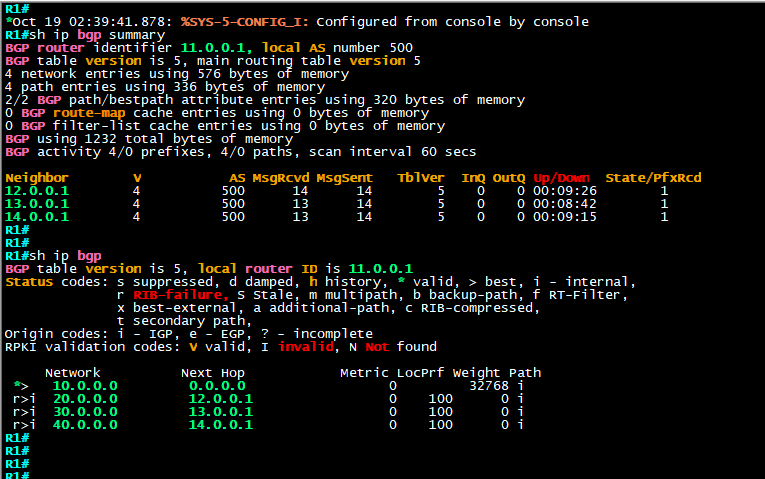
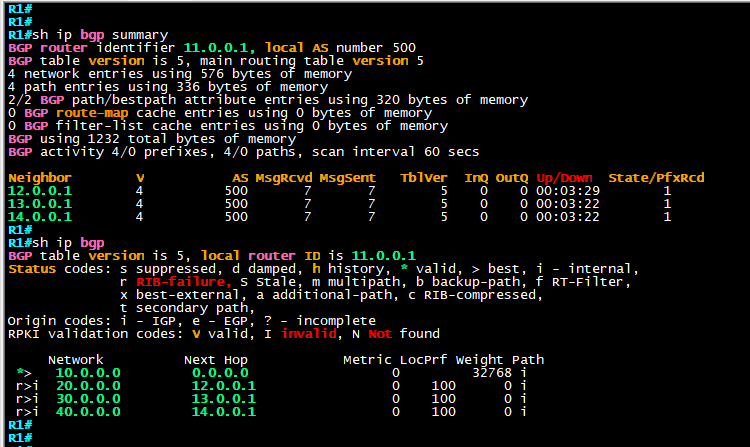
Add post-rename full-mesh BGP evidence

Changed region(s): [[0.0, 0.0, 0.9507, 1.0]]

diff --git a/README.md b/README.md
@@ -19,7 +19,7 @@ R1, R2, R3, and R4 form a physical ring. The iBGP configuration points each rout
 | R3 | `13.0.0.1/32` | `30.1.1.1/8` | `IBGP-PEERS` | `30.0.0.0/8` |
 | R4 | `14.0.0.1/32` | `40.1.1.1/8` | `IBGP-PEERS` | `40.0.0.0/8` |
 
-The current [full-mesh configs](configs/full-mesh) show all three loopback neighbors on each router, with `update-source Loopback0` on each `IBGP-PEERS` group. The CLI screenshots, captured **before the group-name change**, show three established neighbors per router and all four LAN prefixes in each BGP table. I still need fresh neighbor output after the rename. My first export had two R1 mistakes; the [configuration review](docs/config-review.md) records how I found and corrected them.
+The current [full-mesh configs](configs/full-mesh) show all three loopback neighbors on each router, with `update-source Loopback0` on each `IBGP-PEERS` group. The fresh CLI screenshots show three established neighbors per router and all four LAN prefixes in each BGP table after the rename. My first export had two R1 mistakes; the [configuration review](docs/config-review.md) records how I found and corrected them.
 
 ## 2. Route reflector with two clients
 
@@ -39,10 +39,12 @@ The current [route-reflector configs](configs/route-reflector) show the correcte
 
 | Scenario | Evidence | Result shown |
 | --- | --- | --- |
-| Full mesh | [R1](evidence/full-mesh/R1-bgp.png) · [R2](evidence/full-mesh/R2-bgp.png) · [R3](evidence/full-mesh/R3-bgp.png) · [R4](evidence/full-mesh/R4-bgp.png) | Before the rename, each router had three established iBGP neighbors and saw all four LAN prefixes in its BGP table. |
+| Full mesh | [R1](evidence/full-mesh/R1-bgp.png) · [R2](evidence/full-mesh/R2-bgp.png) · [R3](evidence/full-mesh/R3-bgp.png) · [R4](evidence/full-mesh/R4-bgp.png) | After the rename, each router had three established iBGP neighbors and saw all four LAN prefixes in its BGP table. |
 | Route reflector | [R1-RR](evidence/route-reflector/R1-RR-bgp.png) · [R2-RR](evidence/route-reflector/R2-RR-bgp.png) · [R3-RR](evidence/route-reflector/R3-RR-bgp.png) | R2-RR has both client sessions established. R1-RR sees R3-RR's `30.0.0.0/8`, and R3-RR sees R1-RR's `10.0.0.0/8`. |
 
-The screenshots verify BGP session state and routes in the **BGP tables at the time captured**. The full-mesh peers each show one prefix received, but those captures predate the `IBGP-PEERS` rename. R2-RR shows two from each client; each client shows four from R2-RR. The screenshots do not show the IP routing table or packet forwarding. I still need fresh full-mesh neighbor output and route and ping output before claiming current end-to-end connectivity. The [verification checklist](docs/verification.md) tracks that remaining work.
+The screenshots verify BGP session state and routes in the **BGP tables at the time captured**. After the `IBGP-PEERS` rename, the full-mesh peers each show one prefix received. R2-RR shows two from each client; each client shows four from R2-RR. The screenshots do not show the IP routing table or packet forwarding. I still need route and ping output before claiming end-to-end connectivity. The [verification checklist](docs/verification.md) tracks that remaining work.
+
+The remote full-mesh LAN entries have an `r` status in the screenshots (`RIB-failure` in the IOS legend). They appear in BGP, but the screenshots do not show those BGP paths installed in the IP routing table. OSPF advertises the same LANs in this lab, which may explain the result; `show ip route` is needed to confirm which protocol won.
 
 ## Compare the two approaches
 
@@ -66,4 +68,4 @@ The original EVE-NG ZIP and Cisco router image are not included. The addresses s
 
 ## What I learned
 
-The physical links do not tell the whole iBGP story: the full mesh peers by loopback, while the route reflector clients peer directly with R2-RR. Checking the saved configs caught a missing loopback update source, a missing R1 BGP network statement, and an address-mask mismatch. The BGP captures showed sessions and route exchange before I standardized the peer-group name; I still need to recheck them after that change. I also learned that a successful ping alone would be weak proof of BGP route exchange here because the full-mesh OSPF configuration advertises the LANs too.
+The physical links do not tell the whole iBGP story: the full mesh peers by loopback, while the route reflector clients peer directly with R2-RR. Checking the saved configs caught a missing loopback update source, a missing R1 BGP network statement, and an address-mask mismatch. Fresh BGP captures confirmed the sessions and route exchange after I standardized the peer-group name. I also learned that a successful ping alone would be weak proof of BGP route exchange here because the full-mesh OSPF configuration advertises the LANs too.

diff --git a/docs/config-review.md b/docs/config-review.md
@@ -2,11 +2,11 @@
 
 I compared the first EVE-NG export with the latest saved export and the CLI screenshots. The public config files are from the **latest** export. They preserve the routing settings but remove the full-mesh BGP neighbor password lines.
 
-The latest export confirms the commands and interface mask below. The CLI screenshots separately confirm BGP session state and route exchange at the time captured. They predate the final peer-group rename. I have not yet checked the sessions after that rename, IP routing-table installation, or packet forwarding.
+The latest export confirms the commands and interface mask below. The fresh CLI screenshots separately confirm BGP session state and route exchange after the peer-group rename. I have not yet checked IP routing-table installation or packet forwarding.
 
 ## Full mesh R1: loopback update source corrected
 
-The first export showed R1 peering with `12.0.0.1`, `13.0.0.1`, and `14.0.0.1` without an update source, while R2–R4 peered with R1 at `11.0.0.1` and used `update-source Loopback0`. R1 could have sourced an outgoing connection from a physical interface address the other routers did not configure as a neighbor. The latest R1 config contains `neighbor IBGP-PEERS update-source Loopback0`; its earlier CLI screenshot shows three established peers before the group name changed.
+The first export showed R1 peering with `12.0.0.1`, `13.0.0.1`, and `14.0.0.1` without an update source, while R2–R4 peered with R1 at `11.0.0.1` and used `update-source Loopback0`. R1 could have sourced an outgoing connection from a physical interface address the other routers did not configure as a neighbor. The latest R1 config contains `neighbor IBGP-PEERS update-source Loopback0`; its fresh CLI screenshot shows three established peers.
 
 The correction made on full-mesh R1, when the group was still named `NEXT`, was:
 
@@ -18,11 +18,11 @@ end
 copy running-config startup-config
 ```
 
-The [four full-mesh screenshots](../evidence/full-mesh) show three established neighbors per router before the rename. A saved config alone does not prove those sessions stayed up afterward.
+The [four full-mesh screenshots](../evidence/full-mesh) show three established neighbors per router after the rename. A saved config alone would not have proved those sessions stayed up.
 
 ## Full mesh: peer-group name standardized
 
-The latest export changes the local group name from `NEXT` on R1 and `CCIE` on R2–R4 to `IBGP-PEERS` on all four routers. The group settings and three neighbor assignments per router are otherwise unchanged in the saved configs. Peer-group names are local labels; fresh `show ip bgp summary` output is still needed to confirm the sessions after the change.
+The latest export changes the local group name from `NEXT` on R1 and `CCIE` on R2–R4 to `IBGP-PEERS` on all four routers. The group settings and three neighbor assignments per router are otherwise unchanged in the saved configs. Peer-group names are local labels; fresh `show ip bgp summary` output confirms all three neighbors established on each router after the change.
 
 ## Full mesh R1: LAN network statement added
 
@@ -37,6 +37,8 @@ copy running-config startup-config
 ```
 
 All four full-mesh routers also advertise their LANs into OSPF. This helps reachability but makes a successful ping insufficient as proof that BGP carried a LAN route. See the [verification checklist](verification.md).
+
+In the fresh full-mesh BGP screenshots, remote LAN routes carry the `r` status (`RIB-failure` in the command legend). BGP has learned them, but that status does not support a claim that BGP installed them in the IP routing table. OSPF is a possible competing route source because it advertises those LANs; I still need `show ip route` output to identify the installed source.
 
 ## Route reflector R3-RR: LAN mask corrected
 

diff --git a/docs/verification.md b/docs/verification.md
@@ -1,10 +1,10 @@
 # Verification checklist
 
-The latest EVE-NG export contains startup configurations for all seven routers, including the full-mesh peer-group rename to `IBGP-PEERS`. The CLI screenshots show BGP session and table output **before that final rename**. They are evidence from one capture, not a current health check.
+The latest EVE-NG export contains startup configurations for all seven routers, including the full-mesh peer-group rename to `IBGP-PEERS`. The full-mesh CLI screenshots were captured after the rename. They are evidence from one capture, not a continuous health check.
 
 ## Full mesh: R1, R2, R3, R4
 
-Captured on **each** router before the peer-group rename:
+Captured on **each** full-mesh router after the peer-group rename:
 
 ```text
 show ip bgp summary
@@ -13,7 +13,7 @@ show ip bgp
 
 Each router is configured for three iBGP neighbors. In the supplied `show ip bgp summary` screenshots, all three peers on each router show a numeric `State/PfxRcd` of `1`, indicating established sessions on this IOS version. A state such as `Idle` or `Active` would not.
 
-**Needed after the rename:** Run `show ip bgp summary` and `show ip bgp` on R1, R2, R3, and R4. I need numeric `State/PfxRcd` values for all three neighbors on each router and the four LAN prefixes in each BGP table before claiming the renamed configuration is operational.
+The new screenshots show numeric `State/PfxRcd` values for all three neighbors on each router and the four LAN prefixes in each BGP table.
 
 The screenshots show `10.0.0.0/8`, `20.0.0.0/8`, `30.0.0.0/8`, and `40.0.0.0/8` in each router's BGP table. For a concrete next check, run these on full-mesh **R1** and send the output:
 
@@ -25,6 +25,8 @@ ping 30.1.1.1 source 10.1.1.1
 ```
 
 The saved OSPF configs also advertise all four LANs. A successful ping or a LAN route in the IP routing table therefore does **not**, by itself, prove that BGP carried the prefix. The `show ip route 30.0.0.0` output will identify the installed source. If testing BGP-only LAN routing is the goal, remove the LANs from OSPF as a separate, documented experiment after the underlay and BGP sessions are stable.
+
+The remote LAN entries in the full-mesh BGP screenshots show `r` for `RIB-failure`. That is a reason to check the IP routing table before making any forwarding claim. OSPF advertising those same LANs is a possible explanation, not yet a verified cause.
 
 ## Route reflector: R1-RR, R2-RR, R3-RR
 
@@ -55,7 +57,7 @@ Text output is preferable to screenshots for checking exact prefixes and neighbo
 | Check | Current status |
 | --- | --- |
 | Saved configurations for seven nodes | Latest export reviewed and sanitized in this repository |
-| Full-mesh session states | Three established peers per router in screenshots captured before the peer-group rename; fresh output pending |
+| Full-mesh session states | Three established peers per router in screenshots captured after the peer-group rename |
 | Route-reflector session states | Both client sessions established in screenshots |
 | BGP tables and reflected route | Both clients show the other client's LAN prefix |
 | IP route, next-hop, and ping results | Not supplied; forwarding remains unverified |
